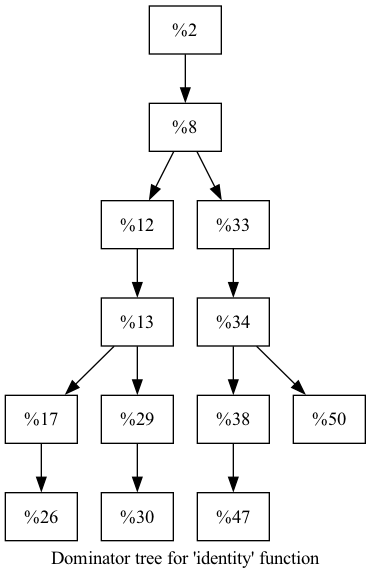
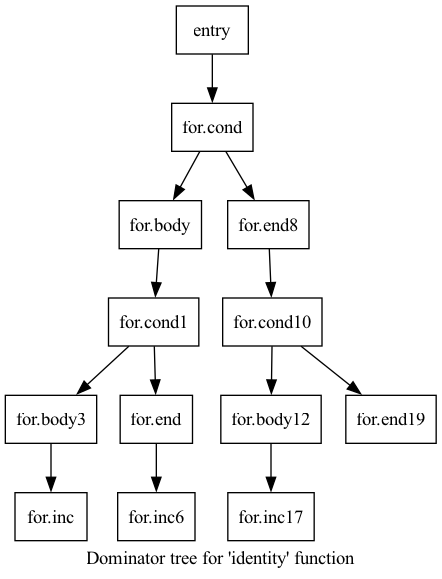
restructuring documentation

diff --git a/docs/visualizing/control-flow-graph.md b/docs/visualizing/control-flow-graph.md
@@ -167,8 +167,10 @@ Para la versión 21 de LLVM, usando la pass `dot-dom-only`, en el MacOS que esto
 primero compilamos el IR con:
 
 ```
-clang -S -emit-llvm -Xclang -disable-O0-optnone examples/diag.c -o examples/diag.ll
+clang -S -emit-llvm -Xclang  -disable-O0-optnone examples/diag.c -o examples/diag.ll -fno-discard-value-names
 ```
+La opción `-fno-discard-value-names`  preserva los nombres de las variables en el IR, lo que hace que el resultado sea más legible. Sin esta opción, LLVM puede asignar nombres genéricos a las variables, lo que dificulta la interpretación del CFG.
+
 y luego generamos el `.dot` con:
 
 ```
